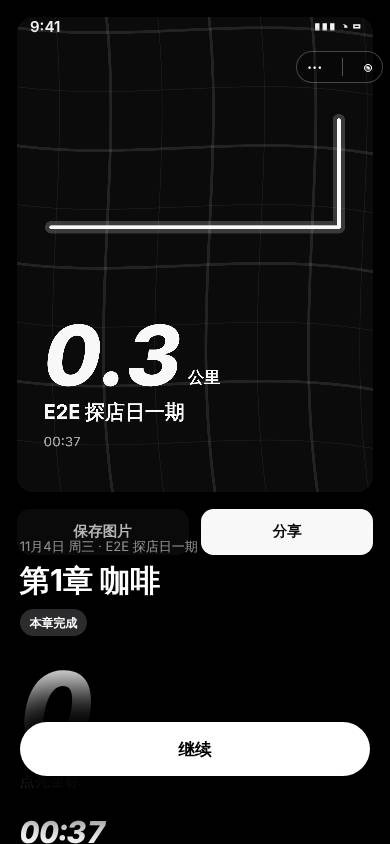
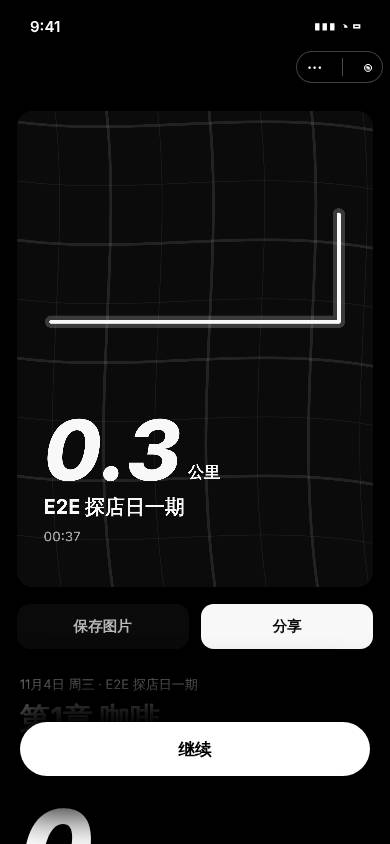
fix: 玩家自己的点也参加图钉避让,店名贴纸不再压在蓝点上;第九轮 m2 结果补 rig 复拍(无垫片)证据(第九轮 m2 补充第 2 项,rig 走查)
Claude-Session: https://claude.ai/code/session_01SUD7bMPG8dyY35GwwXx5WZ

diff --git a/chengyinhub-xcx/tests/lint/ui-integrity-baseline.js b/chengyinhub-xcx/tests/lint/ui-integrity-baseline.js
@@ -1,3 +1,4 @@
+// 2026-11-04 第九轮 m2 补充第 2 项 rig 走查修正(玩家点也参加图钉避让):roam/index.js 增行,既有锚点仅行号位移,理由与条数不变、不新增登记;keyDigest 按门禁 baselineKeyDigest 重算。
 // 2026-11-04 第九轮 m2 rig 走查修正(同场路线发 JSON、表态失败不分享、路线卡排版):play/index.js 增行,既有锚点仅行号位移,理由与条数不变、不新增登记;keyDigest 按门禁 baselineKeyDigest 重算。
 // 2026-11-04 第九轮 m2 补充第 2、3 项(图钉互不重叠、拉远热度点):roam/index.js 增减行,既有 U4-DYNAMIC / U5 锚点仅行号位移(difflib 对父提交逐行映射,调用行逐字相同),理由与条数不变、不新增登记;keyDigest 按门禁 baselineKeyDigest 重算。
 // 2026-11-04 第九轮 m2 补充第 1 项(漫游横滑卡改深色、只留名字距离动作):roam/index.js 增减行,既有 U4-DYNAMIC / U5 锚点仅行号位移(difflib 对父提交逐行映射,调用行逐字相同),理由与条数不变、不新增登记;keyDigest 按门禁 baselineKeyDigest 重算。
@@ -938,7 +939,7 @@ module.exports = {
 // 2026-11-02 走查修复 l4-counter(M-12/M-21/M-24 在 merchantinfo.js 前段 +8 行):2 条 U4-DYNAMIC 锚点仅行号位移(2433→2441、2465→2473),调用行逐字相同、理由与条数不变;digest 按门禁 baselineKeyDigest 重算。
 // 2026-11-03 集成 l4-counter 合 pay-gate/l1/l2/l3:两侧登记取并集,不新增登记;u4Dynamic digest 按门禁 baselineKeyDigest 在合并树重算。
 // 2026-11-03 Round5 l7-launch:club/apply 游客登录入口(+11 行),onInput 233→244、toggleBool 244→255 仅行号位移,调用行逐字相同、理由与条数不变;digest 按门禁同一算法重算。
[2 lines of base64/hex data omitted]
 // 2026-10-28 模板页货架改版(#652)合 master(#610):本线删 template/index 两条 + master play 1621→1624 重锚，合并树 60 条，digest 按同一算法重算。
 // 2026-10-20 R5 尾段(#327,owner 批准 12 条重锚):fabu 729→731、898→900、2524→2530、3570→3588、3951→3969、4957→4990、5215→5248、5866→5899、5876→5909、5929→5962、6270→6303、7936→8060,逐行比对 master 原行一字未改,理由与条数 58 不变;digest 按同一算法显式重算。
       // 2026-08-20 开卡包四拍动效:u5Silent 条数不变(12),只是 play/index.js 的调用点
@@ -1128,7 +1129,7 @@ module.exports = {
       //   逐条回读仍是「只为读章节 recruitEnabled、失败不弹全局 toast」这一处,静默理由一字未改,条数 27 不变。
 // 2026-10-17 合并 master 进漫游上线分支:roam/index.js 14 条、nearby/index.js 2 条既有调用仅行号位移(按 master 源码逐行回读定位);漫游两栏改版删掉 /api/registration/list 静默读取(749),U5 29→28。digest 按同一算法显式重算。
 // 2026-10-19 Claude 小程序线移植到 master(用户批准冻结数值更新):锚点位移 + 举报半屏/AI 对话组件下沉会员分包换路径 + 本线 9 处新增登记,digest 按同一算法重算。
[2 lines of base64/hex data omitted]
 
     }
   },
@@ -1420,18 +1421,18 @@ module.exports = {
   // (本支) "chengyinhub-xcx/pages/templatedetail/templatedetail.js:176": "onLoad 的 data 由本方法构造：先写路由参数派生的固定键，dev 环境命中 mock 时交给 patchNormalized；patchNormalized 以 info/gallery/coverUrl/capRows/detailStats/materialChips/sceneChips/isTopicTemplate/difficultyLetter/difficultyLabel 十项逐个赋值，服务端对象只作为值参与归一化，不展开为 setData 字段名；owner=小程序，复核=2026-09-30",
   // (本支) "chengyinhub-xcx/pages/templatedetail/templatedetail.js:251": "onLoad 的 data 由本方法构造：先写路由参数派生的固定键，dev 环境命中 mock 时交给 patchNormalized；patchNormalized 以 info/gallery/coverUrl/capRows/detailStats/materialChips/sceneChips/isTopicTemplate/difficultyLetter/difficultyLabel 十项逐个赋值，服务端对象只作为值参与归一化，不展开为 setData 字段名；owner=小程序，复核=2026-09-30",
   // (本支) "chengyinhub-xcx/pages/roam/index.js:1421": "动态 setData 需精确登记：setData 参数不是对象字面量；owner=小程序，复核=2026-09-30",
-  // (本支) "chengyinhub-xcx/pages/roam/index.js:3478": "动态 setData 需精确登记：setData 参数不是对象字面量；owner=小程序，复核=2026-09-30",
-  // (本支) "chengyinhub-xcx/pages/roam/index.js:4290": "动态 setData 需精确登记：setData 参数不是对象字面量；owner=小程序，复核=2026-09-30",
-  // (本支) "chengyinhub-xcx/pages/roam/index.js:4340": "动态 setData 需精确登记：setData 参数不是对象字面量；owner=小程序，复核=2026-09-30",
+  // (本支) "chengyinhub-xcx/pages/roam/index.js:3479": "动态 setData 需精确登记：setData 参数不是对象字面量；owner=小程序，复核=2026-09-30",
+  // (本支) "chengyinhub-xcx/pages/roam/index.js:4291": "动态 setData 需精确登记：setData 参数不是对象字面量；owner=小程序，复核=2026-09-30",
+  // (本支) "chengyinhub-xcx/pages/roam/index.js:4341": "动态 setData 需精确登记：setData 参数不是对象字面量；owner=小程序，复核=2026-09-30",
   // (本支) "chengyinhub-xcx/subpackageRoam/session/index.js:145": "动态 setData 需精确登记：...this._route(s)；owner=小程序，复核=2026-09-30",
   // (本支) "chengyinhub-xcx/pages/template/index.js:276": "列表路径先经 COVER_LISTS 白名单限制为 topList/tailList，再校验整数下标、边界与稳定 id 一致，最终只写目标条目的 _coverFail；owner=小程序，复核=2026-09-30",
   // (本支) "chengyinhub-xcx/pages/template/index.js:288": "target 只允许 banner，再校验事件与当前头牌稳定 id 一致，最终只写 banner._coverFail；owner=小程序，复核=2026-09-30",
   // (本支) "chengyinhub-xcx/pages/topic/merchantinfo/merchantinfo.js:1736": "可承接章节失败态只在 categoryMissing 布尔判定下二选一；两个对象分支的键均在本方法写死，state/error/allChaptersList 被 WXML 消费，loading 是已精确登记的页内控制字段；owner=小程序，复核=2026-09-30",
   // (本支) "chengyinhub-xcx/pages/topic/merchantinfo/merchantinfo.js:1745": "可承接章节失败态只在 categoryMissing 布尔判定下二选一；两个对象分支的键均在本方法写死，state/error/allChaptersList 被 WXML 消费，loading 是已精确登记的页内控制字段；owner=小程序，复核=2026-09-30",
       "chengyinhub-xcx/pages/roam/index.js:1900": "动态 setData 需精确登记：setData 参数不是对象字面量；owner=小程序，复核=2026-09-30",
-      "chengyinhub-xcx/pages/roam/index.js:4206": "动态 setData 需精确登记：setData 参数不是对象字面量；owner=小程序，复核=2026-09-30",
-      "chengyinhub-xcx/pages/roam/index.js:5090": "动态 setData 需精确登记：setData 参数不是对象字面量；owner=小程序，复核=2026-09-30",
-      "chengyinhub-xcx/pages/roam/index.js:5148": "动态 setData 需精确登记：setData 参数不是对象字面量；owner=小程序，复核=2026-09-30",
+      "chengyinhub-xcx/pages/roam/index.js:4207": "动态 setData 需精确登记：setData 参数不是对象字面量；owner=小程序，复核=2026-09-30",
+      "chengyinhub-xcx/pages/roam/index.js:5091": "动态 setData 需精确登记：setData 参数不是对象字面量；owner=小程序，复核=2026-09-30",
+      "chengyinhub-xcx/pages/roam/index.js:5149": "动态 setData 需精确登记：setData 参数不是对象字面量；owner=小程序，复核=2026-09-30",
   // (本支) "chengyinhub-xcx/pages/topic/merchantinfo/merchantinfo.js:1743": "可承接章节失败态只在 categoryMissing 布尔判定下二选一；两个对象分支的键均在本方法写死，state/error/allChaptersList 被 WXML 消费，loading 是已精确登记的页内控制字段；owner=小程序，复核=2026-09-30",
   // (本支) "chengyinhub-xcx/pages/topic/merchantinfo/merchantinfo.js:1752": "可承接章节失败态只在 categoryMissing 布尔判定下二选一；两个对象分支的键均在本方法写死，state/error/allChaptersList 被 WXML 消费，loading 是已精确登记的页内控制字段；owner=小程序，复核=2026-09-30",
       "chengyinhub-xcx/pages/templatedetail/templatedetail.js:220": "onLoad 的 data 由本方法构造：先写路由参数派生的固定键，dev 环境命中 mock 时交给 patchNormalized；patchNormalized 以 info/gallery/coverUrl/capRows/detailStats/materialChips/sceneChips/isTopicTemplate/difficultyLetter/difficultyLabel 十项逐个赋值，服务端对象只作为值参与归一化，不展开为 setData 字段名；owner=小程序，复核=2026-09-30",
@@ -1457,8 +1458,8 @@ module.exports = {
   //   落在 4945(master 侧记 4277、本分支侧记 4968,两侧对合并树都不对)。理由一字未改,digest 重算。
   "u5Silent": {
     // 2026-10-28 p74 业主「附近活动总是有的」:漫游起始页附近为空时的两级兜底读取逐项登记。
-    "chengyinhub-xcx/pages/roam/index.js:6265": "漫游起始页「附近活动」3 公里为空时的 20 公里兜底读取(同 /api/roam/entry/nearby、同权限档):主读取已成功落定(空也是真结果),这一条只往底部卡片带补同城活动,读不到就接着读其他城市公开主题;不改地图点位、不承载写入;只写回同一次进页序号与同一身份;owner=漫游,复核=2026-10-28",
-    "chengyinhub-xcx/pages/roam/index.js:6274": "漫游起始页「附近活动」同城也为空时读其他城市公开主题(/api/topic/list 公开列表):只填底部卡片带,读不到时卡片带保持主读取给出的空态卡;不改地图点位、不承载写入;只写回同一次进页序号与同一身份;owner=漫游,复核=2026-10-28",
+    "chengyinhub-xcx/pages/roam/index.js:6266": "漫游起始页「附近活动」3 公里为空时的 20 公里兜底读取(同 /api/roam/entry/nearby、同权限档):主读取已成功落定(空也是真结果),这一条只往底部卡片带补同城活动,读不到就接着读其他城市公开主题;不改地图点位、不承载写入;只写回同一次进页序号与同一身份;owner=漫游,复核=2026-10-28",
+    "chengyinhub-xcx/pages/roam/index.js:6275": "漫游起始页「附近活动」同城也为空时读其他城市公开主题(/api/topic/list 公开列表):只填底部卡片带,读不到时卡片带保持主读取给出的空态卡;不改地图点位、不承载写入;只写回同一次进页序号与同一身份;owner=漫游,复核=2026-10-28",
     // 2026-10-25 官方地点卡片:展开详情两条背景读取逐项登记。
     "chengyinhub-xcx/subpackageRoam/nearby/index.js:1002": "官方地点卡展开时补读节点(相册 / 玩法 / 完成状态 / 评分):卡片已先用地图点位数据渲染名称、地址、介绍和封面,读不到只是少相册与玩法块,开始挑战前挑战页会重新读同一节点并在失败时给错误页和重试;只写回仍开着的同一张卡;owner=上海据点,复核=2026-10-25",
     "chengyinhub-xcx/subpackageRoam/nearby/index.js:1023": "官方地点卡评价列表背景读取:失败时不显示评价区空态文案(reviewsLoaded=false),卡片其余内容与按钮照常,重新点开卡片会重读;不承载提交;只写回仍开着的同一张卡;owner=上海据点,复核=2026-10-25",
@@ -1480,8 +1481,8 @@ module.exports = {
     "chengyinhub-xcx/pages/activity/list/index.js:201": "公开活动读取，失败写实例 _loadError/_loadErrorMsg 并由 applyFilter 派生 curError/errorMsg；普通500/网络失败沿既有 load-failure 留白或保留旧公开列表，公开数据可匿名读，不借私有登录态掩盖失败；owner=小程序，复核=2026-10-16",
     "chengyinhub-xcx/pages/activity/list/index.js:247": "本人参与活动读取，owner/token/seq/可见代际隔离旧回包；401/code2 显示登录单飞恢复，403 独立无权限提示，普通500/网络失败保留同主旧列表或首载 load-failure 留白，经 applyFilter 消费实例 _mineError/_mineErrorMsg；owner=小程序，复核=2026-10-16",
     "chengyinhub-xcx/utils/community-post-api.js:78": "canonical 社区受控请求对象：BASE+path 只接固定发布/编辑阶段 helper 与举报闭包的枚举路由，举报回读仅显式切至本人 /api/community-trust/reports/mine；完整目标匹配 Controller，owner/current 检查及 pipeline success/fail 可见反馈保留，取消不报成功；owner=小程序，复核=213",
-    "chengyinhub-xcx/pages/roam/index.js:6095": "漫游入口地图活动层随地图中心后台刷新:失败汇总到 entryLoadError 并提供重新加载,关闭通用 toast 避免拖图时与页内错误态重复报错;owner=小程序,复核=2026-12-31",
-    "chengyinhub-xcx/pages/roam/index.js:6102": "漫游入口地图队伍层随地图中心后台刷新:失败汇总到 entryLoadError 并提供重新加载,关闭通用 toast 避免拖图时与页内错误态重复报错;owner=小程序,复核=2026-12-31",
+    "chengyinhub-xcx/pages/roam/index.js:6096": "漫游入口地图活动层随地图中心后台刷新:失败汇总到 entryLoadError 并提供重新加载,关闭通用 toast 避免拖图时与页内错误态重复报错;owner=小程序,复核=2026-12-31",
+    "chengyinhub-xcx/pages/roam/index.js:6103": "漫游入口地图队伍层随地图中心后台刷新:失败汇总到 entryLoadError 并提供重新加载,关闭通用 toast 避免拖图时与页内错误态重复报错;owner=小程序,复核=2026-12-31",
   // (本支) "chengyinhub-xcx/pages/activity/list/index.js:105": "公共活动列表读取:失败落 loadError/errorMsg,由页面 cy-error 呈现并给重试,关掉自动 toast 是避免双弹;owner=小程序,复核=2026-12-31",
   // (本支) "chengyinhub-xcx/pages/activity/list/index.js:129": "「我发布的」列表读取:失败落 mineError/errorMsg,同页错误态承接,同上;owner=小程序,复核=2026-12-31",
   // (本支) "chengyinhub-xcx/pages/roam/index.js:2119": "上报自己位置的心跳,30 s 一次:掉一次就是这一格没报上去,下一次覆盖它;弹错等于每走两步弹一个框,而且用户对此无事可做 —— 真失效(服务端 5 分钟收不到)的表现是自己从别人地图上消失,不是这里报错;owner=小程序,复核=2026-09-30",
@@ -1491,8 +1492,8 @@ module.exports = {
     "chengyinhub-xcx/utils/marketing-consent-entry.js:60": "支付成功面板/订单详情上取商家营销同意状态(GET /api/merchant/crm/marketing-consents)是非必要附属请求:失败只隐藏可选的同意勾选行(fail-closed),主流程(面板自愈跳转、订单详情)不受影响;支付刚成功就弹通道默认「网络错误」会让玩家以为没付成功(2026-09-17 总控裁定,release-0917 第三阶段 C);保存同意(POST)仍不静默;owner=小程序,复核=2026-12-31",
     "chengyinhub-xcx/utils/roam-share-snapshot.js:137": "接收方读取朋友分享的足迹快照(匿名 GET,单独字面量供 GET 权限矩阵核对):服务端明确没有落整页「这条足迹已不再公开」空态,断网/网关落整页错误态带重试;通道自动 toast 会与整页状态重复;owner=小程序,复核=2026-12-31",
     "chengyinhub-xcx/utils/roam-share-snapshot.js:22": "足迹分享快照三路请求(发布/作废/接收方读取)都有专用可见反馈:发布失败在分享面板写明「足迹链接没生成」并给重试,作废失败由清空确认后的精确 toast 说明「链接暂未失效」,接收方读取失败按 gone/error 落整页空态或重试;通道自动 toast 会把同一件事报两遍;owner=小程序,复核=2026-12-31",
-      "chengyinhub-xcx/pages/roam/index.js:2764": "上报自己位置的心跳,30 s 一次:掉一次就是这一格没报上去,下一次覆盖它;弹错等于每走两步弹一个框,而且用户对此无事可做 —— 真失效(服务端 5 分钟收不到)的表现是自己从别人地图上消失,不是这里报错;owner=小程序,复核=2026-09-30",
-      "chengyinhub-xcx/pages/roam/index.js:2793": "拉附近还在走的人,45 s 一次:拉不到就保留上一批不清空(见调用点注释),地图上没人是常态不是错误;这一层报错会把「附近本来就没人」说成「出问题了」;owner=小程序,复核=2026-09-30",
+      "chengyinhub-xcx/pages/roam/index.js:2765": "上报自己位置的心跳,30 s 一次:掉一次就是这一格没报上去,下一次覆盖它;弹错等于每走两步弹一个框,而且用户对此无事可做 —— 真失效(服务端 5 分钟收不到)的表现是自己从别人地图上消失,不是这里报错;owner=小程序,复核=2026-09-30",
+      "chengyinhub-xcx/pages/roam/index.js:2794": "拉附近还在走的人,45 s 一次:拉不到就保留上一批不清空(见调用点注释),地图上没人是常态不是错误;这一层报错会把「附近本来就没人」说成「出问题了」;owner=小程序,复核=2026-09-30",
     // 2026-09-17 定向广播接线:pages/merchant/customer/index.js 在原触达历史登记点上方
     //   新增广播预览/发送两段(服务端预览失败、发送失败都落半屏内 cast.error 行,含可重试说明,
     //   属「同请求内静态证明显式处理」,不需要逐项登记),既有那条静默登记点按门禁实测
@@ -1505,22 +1506,22 @@ module.exports = {
     "chengyinhub-xcx/utils/analytics.js:233": "埋点投递是纯副作用且不应打扰玩家，fail 只回报 onDone(false)；必须显式登记，禁止因非空回调自动安全；owner=小程序，复核=2026-09-15",
     "chengyinhub-xcx/utils/ui-state-request.js:10": "共用请求封装,静默由调用方接管:各页在 fail 分支写页内错误态与重试,禁止 request-client 再弹一次；owner=小程序，复核=2026-09-30",
       "chengyinhub-xcx/pages/roam/index.js:1989": "官方活动到达验证提交:失败由 .then 内 _setEventFeedback 写活动叠层页内错误态(后端 msg 或「本次验证没有送达，请保持当前位置后重试」),关自动 toast 避免双弹；owner=小程序，复核=2026-09-30",
-      "chengyinhub-xcx/pages/roam/index.js:4575": "据点发现确认:失败按 net/unknown/server 分类返回,调用方写 paceCard.checkinErr 页内错误并按是否可重试给重试钮(结果未知不给重试防重复提交),关自动 toast 避免双弹；owner=小程序，复核=2026-09-30",
-      "chengyinhub-xcx/pages/roam/index.js:4789": "发现奖励卡上附带的附近探店日候选:失败或无候选返回 null,只是奖励卡少一条可选推荐,不影响主流程;弹错会打断奖励反馈；owner=小程序，复核=2026-09-30",
-      "chengyinhub-xcx/pages/roam/index.js:4874": "商家打卡提交:失败按 net/unknown/server 分类返回,_sendCheckin 只给一句 toast 并把打卡卡收起(2026-09-16 拍板「漫游打卡不存在失败态」:visit.checkinErr 与 retryCheckin 已删,距离不够在 startVisit 就被拦下),关自动 toast 避免双弹;owner=小程序,复核=2026-09-30",
-      "chengyinhub-xcx/pages/roam/index.js:4985": "三店连亮勋章配置读取:失败沿用兜底阈值与文案(SHOP_BADGE_FALLBACK_THRESHOLD),fail-open 不比改动前差;无用户可做的动作；owner=小程序，复核=2026-09-30",
-      "chengyinhub-xcx/pages/roam/index.js:5433": "漫游分享发到广场的发帖请求:失败由同一 Promise 链接管——业务失败 fail(msg) 出 toast,网络/HTTP 异常与 catch 均提示「到广场核对，暂不要重复发布」并置 squarePostUnknown;关自动 toast 是避免双弹;owner=小程序,复核=2026-09-30",
+      "chengyinhub-xcx/pages/roam/index.js:4576": "据点发现确认:失败按 net/unknown/server 分类返回,调用方写 paceCard.checkinErr 页内错误并按是否可重试给重试钮(结果未知不给重试防重复提交),关自动 toast 避免双弹；owner=小程序，复核=2026-09-30",
+      "chengyinhub-xcx/pages/roam/index.js:4790": "发现奖励卡上附带的附近探店日候选:失败或无候选返回 null,只是奖励卡少一条可选推荐,不影响主流程;弹错会打断奖励反馈；owner=小程序，复核=2026-09-30",
+      "chengyinhub-xcx/pages/roam/index.js:4875": "商家打卡提交:失败按 net/unknown/server 分类返回,_sendCheckin 只给一句 toast 并把打卡卡收起(2026-09-16 拍板「漫游打卡不存在失败态」:visit.checkinErr 与 retryCheckin 已删,距离不够在 startVisit 就被拦下),关自动 toast 避免双弹;owner=小程序,复核=2026-09-30",
+      "chengyinhub-xcx/pages/roam/index.js:4986": "三店连亮勋章配置读取:失败沿用兜底阈值与文案(SHOP_BADGE_FALLBACK_THRESHOLD),fail-open 不比改动前差;无用户可做的动作；owner=小程序，复核=2026-09-30",
+      "chengyinhub-xcx/pages/roam/index.js:5434": "漫游分享发到广场的发帖请求:失败由同一 Promise 链接管——业务失败 fail(msg) 出 toast,网络/HTTP 异常与 catch 均提示「到广场核对，暂不要重复发布」并置 squarePostUnknown;关自动 toast 是避免双弹;owner=小程序,复核=2026-09-30",
       "chengyinhub-xcx/subpackageRoam/nearby/index.js:283": "附近主题地图层只读：当前epoch/账号有效后401与403显示登录或权限提示并清图层；普通失败进入loadError读取留白，refresh/retryNearby可回读；异步icon生成受owner/seq约束，关闭通用toast避免拖图重复反馈；owner=小程序，复核=2026-10-12",
   // (本支) "chengyinhub-xcx/pages/roam/index.js:779": "动态 setData 需精确登记：setData 参数不是对象字面量；owner=小程序，复核=2026-09-30",
   // (本支) "chengyinhub-xcx/pages/roam/index.js:1511": "动态 setData 需精确登记：setData 参数不是对象字面量；owner=小程序，复核=2026-09-30",
-  // (本支) "chengyinhub-xcx/pages/roam/index.js:3739": "动态 setData 需精确登记：setData 参数不是对象字面量；owner=小程序，复核=2026-09-30",
-  // (本支) "chengyinhub-xcx/pages/roam/index.js:3997": "动态 setData 需精确登记：setData 参数不是对象字面量；owner=小程序，复核=2026-09-30",
-  // (本支) "chengyinhub-xcx/pages/roam/index.js:4079": "动态 setData 需精确登记：setData 参数不是对象字面量；owner=小程序，复核=2026-09-30",
-  // (本支) "chengyinhub-xcx/pages/roam/index.js:4187": "动态 setData 需精确登记：setData 参数不是对象字面量；owner=小程序，复核=2026-09-30",
+  // (本支) "chengyinhub-xcx/pages/roam/index.js:3740": "动态 setData 需精确登记：setData 参数不是对象字面量；owner=小程序，复核=2026-09-30",
+  // (本支) "chengyinhub-xcx/pages/roam/index.js:3998": "动态 setData 需精确登记：setData 参数不是对象字面量；owner=小程序，复核=2026-09-30",
+  // (本支) "chengyinhub-xcx/pages/roam/index.js:4080": "动态 setData 需精确登记：setData 参数不是对象字面量；owner=小程序，复核=2026-09-30",
+  // (本支) "chengyinhub-xcx/pages/roam/index.js:4188": "动态 setData 需精确登记：setData 参数不是对象字面量；owner=小程序，复核=2026-09-30",
   // (本支) "chengyinhub-xcx/pages/roam/index.js:626": "拉附近有人在组局(原型 f-hangout),120 s 一次的背景轮询:拉不到就保持上一张不闪,地图上没有局本来就是常态;这一层报错会把「附近本来就没人组局」说成「出问题了」,而且页面里没有可给的重试动作;owner=小程序,复核=2026-09-30",
   // (本支) "chengyinhub-xcx/subpackageRoam/nearby/index.js:399": "拉附近别人打过卡的地方(原型 h-place),跟着地图中心走的背景读取:读不到就这一次列表为空,用户换个地方拖图就会再拉一次;弹错等于每拖一下图弹一个框;owner=小程序,复核=2026-09-30",
   // (本支) "chengyinhub-xcx/subpackageRoam/nearby/index.js:434": "拉「谁在这儿打过卡」的头像与人数:半屏的名字与地址已经先渲染出来了,这一条只是往上补人;补不上就只显示名字,不该为它弹错;owner=小程序,复核=2026-09-30",
-  // (本支) "chengyinhub-xcx/pages/roam/index.js:4518": "动态 setData 需精确登记：setData 参数不是对象字面量；owner=小程序，复核=2026-09-30",
+  // (本支) "chengyinhub-xcx/pages/roam/index.js:4519": "动态 setData 需精确登记：setData 参数不是对象字面量；owner=小程序，复核=2026-09-30",
   // (本支) "chengyinhub-xcx/pages/play/index.js:5810": "已完成里程碑为可选增强，请求失败保持 milestone=null 且轴不渲染；owner=小程序，复核=2026-09-15",
   // (本支) "chengyinhub-xcx/components/cy/post-compose/index.js:383": "广场选活动报名列表读取:失败落组件 activityError,由选活动层呈现并给重试,关掉自动 toast 避免双弹;owner=小程序,复核=2026-12-31",
   // (本支) "chengyinhub-xcx/components/cy/post-compose/index.js:396": "广场选活动「我主办的」列表读取:失败汇总进同一 activityError,同上;owner=小程序,复核=2026-12-31"

diff --git a/chengyinhub-xcx/tests/unit/roam-photo-pins.test.js b/chengyinhub-xcx/tests/unit/roam-photo-pins.test.js
@@ -288,7 +288,7 @@ test('第九轮 m2 补充第 2 项:46 枚与 200 枚,各缩放级别都不重叠
 });
 test('第九轮 m2 补充第 2 项:漫游页所有非状态图钉都参与避让,放不下的降成小圆点', () => {
   const js = read('pages/roam/index.js');
-  assert.match(js, /photoPins\.layoutPins\(pinCandidates, layoutRegion, this\._fogScreenSize\)/);
+  assert.match(js, /photoPins\.layoutPins\(pinCandidates, layoutRegion, this\._fogScreenSize,/);
   assert.match(js, /if \(this\._icons && this\._icons\['pin-dot'\]\) c\.m\.iconPath = this\._icons\['pin-dot'\];/);
 });
 
@@ -299,4 +299,12 @@ test('第九轮 m2 补充第 3 项:拉远是热度——叠得越多越大越亮
   const js = read('pages/roam/index.js');
   assert.match(js, /this\._icons\['pin-heat' \+ lv\] = await save\(\);/);
   assert.match(js, /iconPath: icon, zIndex: 2 \+ heat\.level/);
+});
+
+test('rig 走查修正:玩家自己的点也占位,图钉不压蓝点', () => {
+  const vp = { width: 390, height: 844 };
+  const region = pins.fallbackRegion({ lat: 31.23, lng: 121.47 }, 17, vp);
+  const c = [{ id: 1, lat: 31.23, lng: 121.47, size: 44, label: 'shop', participating: true, photo: true, d: 0 }];
+  assert.strictEqual(pins.layoutPins(c, region, vp).length, 1);
+  assert.strictEqual(pins.layoutPins(c, region, vp, [{ lat: 31.23, lng: 121.47, size: 48 }]).length, 0);
 });

diff --git a/chengyinhub-xcx/pages/roam/photo-pins.js b/chengyinhub-xcx/pages/roam/photo-pins.js
@@ -117,10 +117,15 @@ function fallbackRegion(center, scale, viewport) {
   return { southwest: { latitude: lat - dLat, longitude: lng - dLng }, northeast: { latitude: lat + dLat, longitude: lng + dLng } };
 }
 /** 返回放得下的候选(按相关度排好);没放下的由调用方降成小圆点 */
-function layoutPins(cands, region, viewport) {
+function layoutPins(cands, region, viewport, obstacles) {
   const sorted = (cands || []).slice().sort((a, b) => relevance(b) - relevance(a));
   if (!regionBox(region)) return sorted;
   const placed = [];
+  // 固定占位(玩家自己的点):先放进去,任何图钉都不压它(rig 走查:店名贴纸压在蓝点上)
+  (obstacles || []).forEach((o) => {
+    const s0 = o && toScreen(o.lat, o.lng, region, viewport);
+    if (s0) placed.push({ x: s0.x, y: s0.y, r: (Number(o.size) || 40) / 2 });
+  });
   const kept = [];
   sorted.forEach((c) => {
     const s = toScreen(c.lat, c.lng, region, viewport);

diff --git a/chengyinhub-xcx/pages/roam/index.js b/chengyinhub-xcx/pages/roam/index.js
@@ -2640,7 +2640,8 @@ Page({
     // 第九轮 m2 补充第 2 项:相关度高的先放(选中 > 参与商铺 > 有照片 > 离中心近),和已放下的任何一枚重叠的降成小圆点,
     // 拉近后自然放出来。一屏最多 MAX_PHOTO_PINS 枚照片 / 标签(cover-view 有数量上限,也压住 setData 体积)。
     const layoutRegion = pinRegion || photoPins.fallbackRegion(pinCenter, pinScale, this._fogScreenSize);
-    const placedPins = photoPins.layoutPins(pinCandidates, layoutRegion, this._fogScreenSize);
+    const placedPins = photoPins.layoutPins(pinCandidates, layoutRegion, this._fogScreenSize,
+      this._player && this.data.mapReady ? [{ lat: this._player.lat, lng: this._player.lng, size: 48 }] : []);
     let photoSlots = photoPins.MAX_PHOTO_PINS;
     pinCandidates.forEach((c) => {
       const placed = placedPins.indexOf(c) >= 0;

diff --git a/docs/delivery/walk-fix-20261102/integ/map-shots/m2-rig-notes.md b/docs/delivery/walk-fix-20261102/integ/map-shots/m2-rig-notes.md
@@ -1,11 +1,35 @@
 # Round 9 · lane m2-routes · rig walk notes
 
-Candidate: `40b4dcdb` (tip of `integ/launch-test-20261103`), built in its own detached worktree
+Candidate: first walk on `40b4dcdb`. **Recheck on `a726b420`, then `12d84be8`** (see "Recheck on the fix" below). Built in its own detached worktree
 (`$HOME/walk-rig/candidate`). `/home/user/hengyin` was not committed to, pushed or switched. The only files
 added there are the ones in this folder whose names start with `m2-`. **All shots come from the rig, not a
 phone.** The map in every shot is the rig's canvas stand-in, not Tencent's map.
 
-## Product bugs found
+## Recheck on the fix (`a726b420` → `12d84be8`): all three bugs FIXED
+
+- **What was rebuilt.** The candidate worktree was moved to `a726b420`, then to `12d84be8`, and the browser bundle was rebuilt from it each time.
+  - The backend jar was not rebuilt. `git diff 40b4dcdb 12d84be8` changes no Java, XML or SQL, only `chengyinhub-xcx` and docs. So the running backend is the same code.
+  - `up.sh` is pinned to `12d84be8`.
+- **The JSON shim is no longer used.** All rechecked shots and evidence come from the product code as shipped.
+- **Bug 1 (JSON) fixed.** The bundle now sends `{'content-type':'application/json'}` on consent and sync.
+  - A normal browser consent + sync returned 200 / code 200 (`m2-team-negative.txt` §13).
+  - The two-player run made 2 consent and 5 sync calls, all code 200, with no 「访问过于频繁」 (§14).
+  - Client end-of-run `finished:true` returned 200 (§15).
+- **Bug 2 (privacy) fixed.** §11 was repeated in §12: the switch was set OFF and the page's `/trail/consent` request was made to fail.
+  - The client stays `share:false` and does not poll, so no `/sync` is sent.
+  - `HGET team_trail:pts:14 990007` returns nil.
+- **Bug 3 (finish sheet) fixed** (`m2-card2.jpg`). The card now starts below the capsule, and 保存图片 / 分享 sit clear of the date line.
+  - Remaining observation: on the first screen the fixed 「继续」 button sits over the 「第1章 咖啡」 title. That is scrollable content under a fixed button, not the old overlap.
+- **Retaken without the shim:**
+  - `m2-team-a.jpg`, `m2-team-b.jpg`, `m2-team-follow.jpg`: same content as before (other team's glow line, avatar pin with 「第 1 站」 on A's view, rail, follow).
+  - `m2-route-play.jpg` and `m2-card2.jpg`.
+  - `m2-shop-share-after.jpg`: the address line is a little brighter. There is still no shop code, because WeChat is unreachable.
+  - `m2-fly-after.jpg` on `12d84be8`: the swipe card is shorter (200rpx), with a photo thumbnail.
+    - Fixture: 弄堂口咖啡 (`roam_poi` 36) was given an approved cover so that the first card has a photo.
+    - Its pin is shown enlarged as the selected one.
+    - Still seen: the shop's name tag sits partly over the player's blue dot (the player marker is not part of avoidance).
+
+## Product bugs found (first walk, on 40b4dcdb; all three fixed in a726b420, see above)
 
 1. **Same-session team routes never work on a real client (blocker).** The client sends
    `/api/team/trail/consent` and `/api/team/trail/sync` form-encoded, but the backend only accepts JSON.
@@ -73,7 +97,7 @@ Per-run seams (in the walk scripts, not in the rig):
 - `onRegionChange({type:'end', causedBy:'scale', scale, region})` stands in for a pinch, as the previous lane did.
 - Roam POIs in state `fog` were set to `seen`, the state they reach after walking past them, for the pin shots.
 - `openRoamDiscover()` was called for the shop strip. That is the handler behind the passport tile 「发现附近店铺」; it is not in 更多.
-- **JSON shim for team-trail POSTs** (`JSON_SHIM=1`): it wraps `wx.request` so `/api/team/trail/(consent|sync)` go out as
+- **JSON shim for team-trail POSTs** (`JSON_SHIM=1`; first walk only, NOT used in the recheck on `a726b420`/`12d84be8`): it wraps `wx.request` so `/api/team/trail/(consent|sync)` go out as
   `application/json`. This stands in for the missing header (bug 1). Without it no team shot is possible.
   `m2-team-a/b/follow`, `m2-route-play` and `m2-card2` were taken with it. `m2-consent` was taken without it (the sheet is the same).
 
@@ -105,7 +129,7 @@ Per-run seams (in the walk scripts, not in the rig):
 | Shot | What it shows | Notes |
 |---|---|---|
 | `m2-route-roam.jpg` | Roam after 14 `loc` steps (~320 m east then north) at scale 17: wide translucent white glow (`#FFFFFF38`, 14 px) under a bright line (`#FFFFFFF2`, 4 px), ending at the player dot | The fog's revealed blob sits a little up and left of the line (fog vs stand-in projection); the HUD shows 0.32 km |
-| `m2-route-play.jpg` | Story map (`openStoryMap`) after the same walk in play, with the run started from 游玩工具 → 开始这一局: the same two-layer glow line, the arrow at its end, the 1–4 station route | JSON shim on; no other team active at the time |
+| `m2-route-play.jpg` | Story map (`openStoryMap`) after the same walk in play, with the run started from 游玩工具 → 开始这一局: the same two-layer glow line, the arrow at its end, the 1–4 station route | Retaken on `12d84be8` without the shim; no other team active at the time |
 | `m2-consent.jpg` | The 「同场路线」 sheet: switch row 「让同场队伍看到我的路线」 (on by default) and a full-width 「开始」 | No shim. It appears after 开始游戏 → 开启定位, i.e. when location starts (`watchLocation` → `_startTeamTrail`), not from the run button. Behind it is the club-lead 「队伍集合中 0/4」 screen. The sheet has no line saying what is shared or for how long. |
 | `m2-team-a.jpg` | 9004 (晨光队) story map: own white glow route; 夜航队's green glow line; its avatar pin with 「第 1 站」; the right-side avatar rail | 夜航队's pin is drawn above its last point because of the stand-in's customCallout placement (ring + tag height). It sits right next to station 1 and the player arrow. |
 | `m2-team-b.jpg` | walk-player-1 (夜航队) sees 晨光队's line, its avatar pin (no tag: 0 stations done) and the rail | 晨光队's last point is ~35 m from station 1, so its avatar hides the 「1」 station marker. This is geography, but team pins can cover the next-stop marker. |

diff --git a/docs/delivery/walk-fix-20261102/integ/ROUND9-M2-RESULT.md b/docs/delivery/walk-fix-20261102/integ/ROUND9-M2-RESULT.md
@@ -87,10 +87,14 @@ Proof:
 - Shots `m2-consent.jpg`, `m2-team-a.jpg` and `m2-team-b.jpg` (each account sees the other team's line, pin and rail),
   and `m2-team-follow.jpg`.
 
+Retake on the fix (`a726b420`, then `12d84be8`), without any rig shim:
+- A normal consent + sync from the page returns 200 and is stored (`m2-team-negative.txt` §13–§15). A two-player run made
+  2 consents and 5 syncs, all 200, with no rate-limit replies.
+- Switch off + consent request forced to fail: the client stays off and sends no sync; Redis has no opt row and no
+  points for that person (§12).
+- `m2-team-a.jpg`, `m2-team-b.jpg` and `m2-team-follow.jpg` were retaken and are unchanged from the first walk.
+
 Not verified:
-- **Retake pending.** The team shots and the opt-out-with-failed-request repro are being retaken without the JSON shim on
-  the fixed commit. If that section below still says pending, the first team shots were taken with a rig shim
-  standing in for the JSON fix.
 - **Phone only:**
   - `translateMarker` smoothness and avatar callout placement on Tencent's map;
   - polling on a cellular network, and pausing in the background;
@@ -110,7 +114,8 @@ Not verified:
 - **Privacy.** The first and last 150 m of the route are cut off (a quarter each for very short walks), so the card
   never shows a doorstep.
 - City comes from the existing reverse geocode. With `reducedMotion` the card appears finished.
-- Rig fix: the card now starts below the capsule, and the title row no longer slides up under the buttons.
+- Rig fix: the card now starts below the capsule, and the title row no longer slides up under the buttons
+  (retaken `m2-card2.jpg`; the fixed 「继续」 button still floats over scrolled content, as before).
 - Files: `pages/play/utils/route-card.js`, `pages/play/index.{js,wxml,wxss}`.
 - Proof: `tests/unit/route-card.test.js` (6 tests). Shot `m2-card2.jpg`.
 - Not verified: in the rig the theme code is missing (WeChat cannot be reached, 「个人码生成服务繁忙」) and the city is missing
@@ -131,7 +136,7 @@ Not verified:
   centre and scale.
 - Unit-tested at 46 and 200 markers for scales 15–18: no overlaps, and a participating shop only loses to another
   participating shop. Shots `m2-pins-46.jpg`, `m2-pins-200.jpg`.
-- Seen in the rig: the player's own dot is not part of the avoidance, so a shop tag can touch it.
+- The rig showed a shop tag sitting on the player's own dot. The player dot now takes part in the avoidance too (unit tested).
 
 ### 3. Density dots — done
 - Positions are still the real points. Dots are white cores with a soft glow, and three sizes (18/26/34 px) get
@@ -191,7 +196,7 @@ Not verified:
 
 ## Verification
 
-- **Full mini unit suite** (local, on `40b4dcdb`): 15,976 tests, 0 failures. After the rig fixes, the touched files were
+- **Full mini unit suite** (local, on `40b4dcdb`): 15,976 tests, 0 failures. The final full run is below. After the rig fixes, the touched files were
   rerun: team-trail, route-card, play-ui, monochrome, GET matrix, action ledger, roam pins and the shop strip all pass.
 - **UI gates:**
   - `ui-integrity.js`: UI-GATE-0:PASS. The baseline has only line-number moves, re-anchored line by line against the
